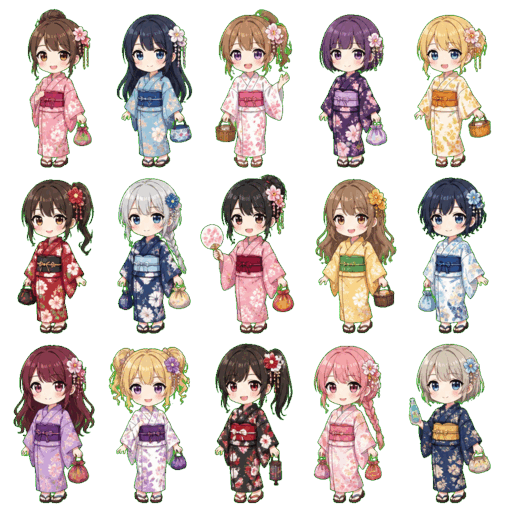
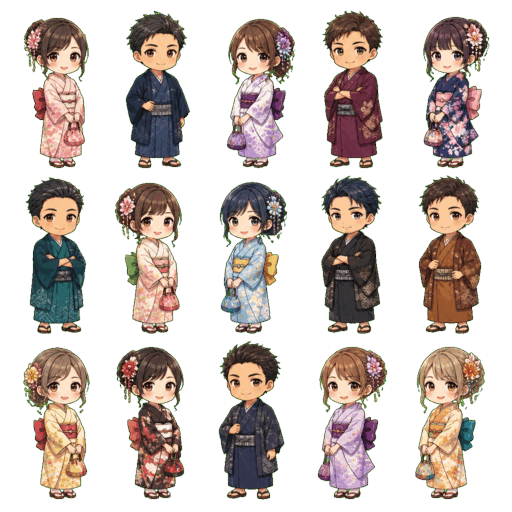
Update mall guest requirements and test suite
Replit-Commit-Author: Agent

diff --git a/artifacts/momentum-checkin/constants/mall-guests.ts b/artifacts/momentum-checkin/constants/mall-guests.ts
@@ -31,9 +31,10 @@ export const GUEST_ROWS = 3;
 export const GUEST_ATLAS_FRAME_WIDTH = 192;
 export const GUEST_FRAME_WIDTH = 48;
 export const GUEST_FRAME_HEIGHT = 64;
+// New square atlases have larger character cutouts; this frame yields about 55px of visible character height, matching 5F.
 export const GUEST_FRAME_SIZES_BY_FLOOR = Array.from({ length: 20 }, (_, index) =>
   index >= 9 && index <= 18
-    ? { width: 51.2, height: 1024 / 3 / 4 }
+    ? { width: 36, height: 60 }
     : { width: GUEST_FRAME_WIDTH, height: GUEST_FRAME_HEIGHT },
 );
 export const GUEST_COUNTS_BY_FLOOR = [10, 10, 10, 12, 11, 10, 11, 13, 10, 13, 13, 13, 13, 13, 13, 13, 13, 13, 13, 10] as const;

diff --git a/.agents/memory/mall-scene-requirements.md b/.agents/memory/mall-scene-requirements.md
@@ -23,7 +23,7 @@ description: 使用者明確要求的商場視覺、動畫及位置選擇方式
 
 **How to apply:** 換層要同時更新場景與本層清單；新增主題時仍須保留既有購買與擺放紀錄。
 
-每層至少有 10 位不重覆客人在商場內活動的動畫，客人採日系養成遊戲的 Q 版插畫。主題樓層要有相應角色：和服店層有和服女客人、Cosplay 層有《火影忍者》鼬、晚禮服層有粉紅蓬蓬裙客人及貓耳男客人、婚紗層有婚紗客人；第 4 層額外有男女美人魚、第 7 層額外有彩虹公主裙客人、第 8 層額外有嫦娥、后羿和希臘神話神祇。
+每層至少有 10 位不重覆客人在商場內活動的動畫，客人採日系養成遊戲的 Q 版插畫。主題樓層要有相應角色：和服店層有和服女客人，15F 櫻花溫泉小町也要包含數位穿不同男式浴衣的男性客人；Cosplay 層有《火影忍者》鼬、晚禮服層有粉紅蓬蓬裙客人及貓耳男客人、婚紗層有婚紗客人；第 4 層額外有男女美人魚、第 7 層額外有彩虹公主裙客人、第 8 層額外有嫦娥、后羿和希臘神話神祇。
 
 所有客人的顯示身高要一致，以第 5 層客人的大小為準，服裝輪廓可因比例而有不同寬度。
 
